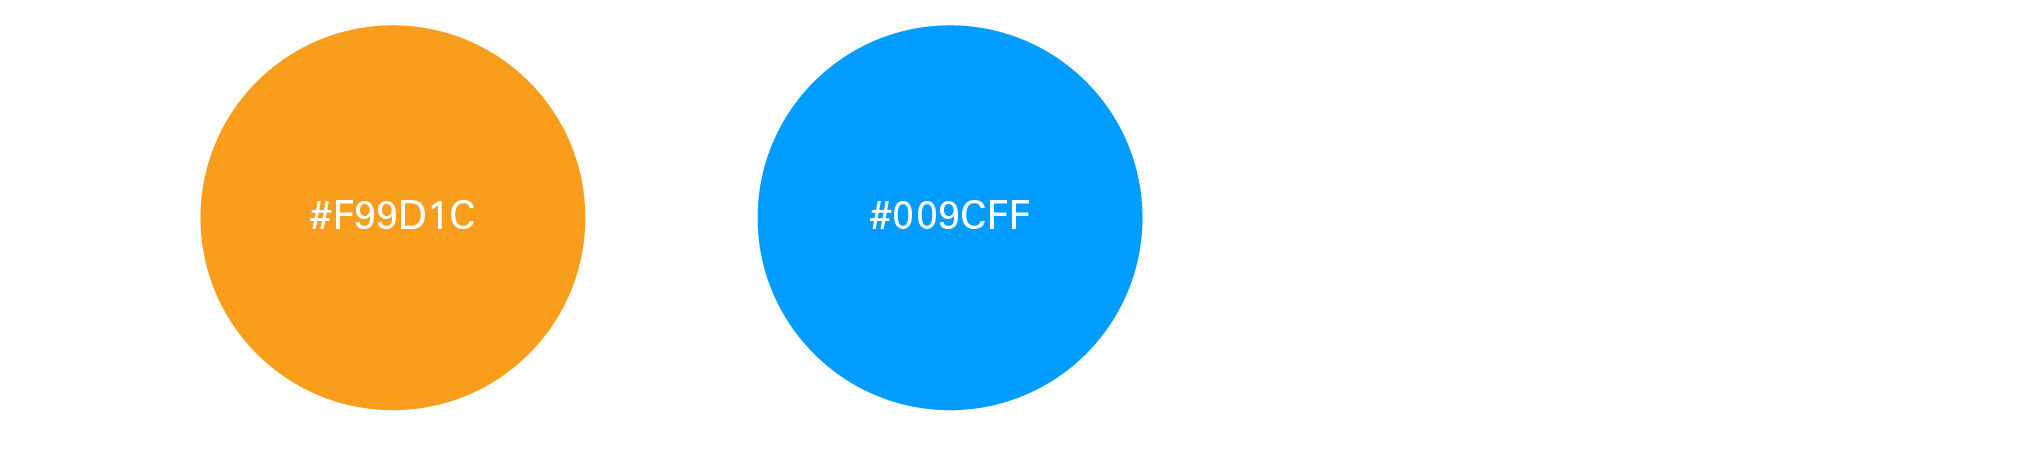
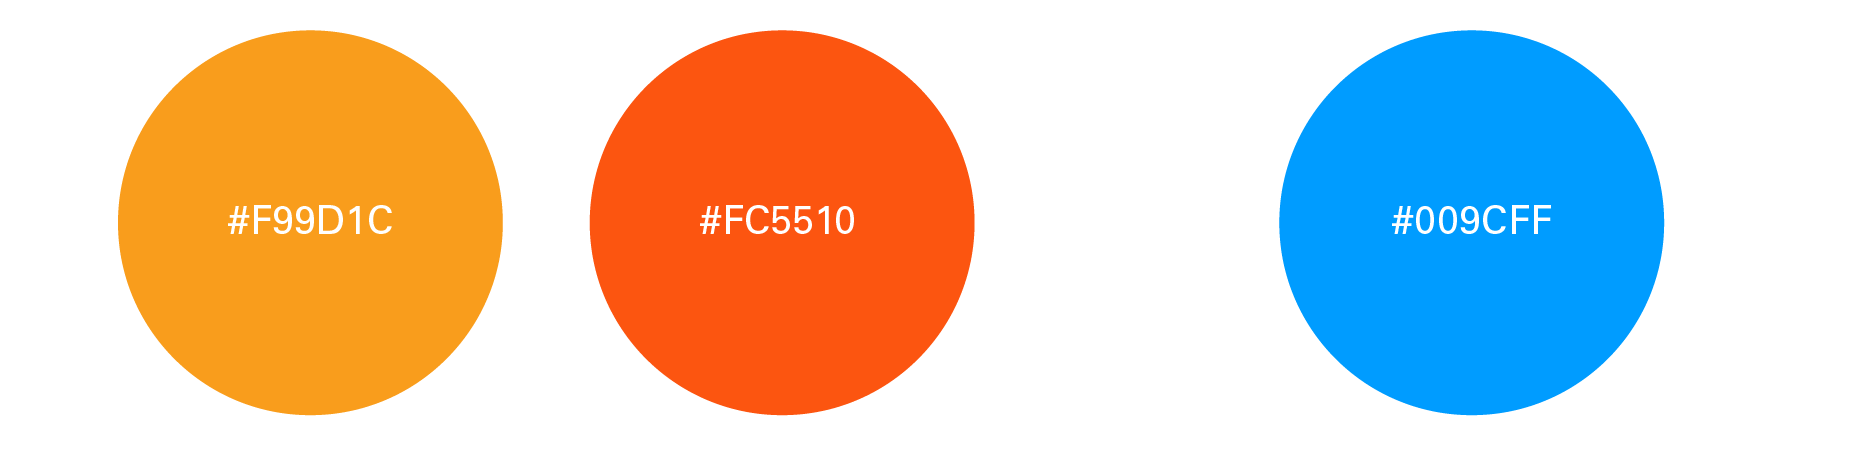
added rough images

diff --git a/index.html b/index.html
@@ -170,15 +170,29 @@
 
 							<p><strong>Color</strong></p>
 
-							<p>I was challenged to devise a color scheme that utilized my least favorite color: a bright orange. To maintain my intended simplicity of the design and avoid visual distractions, I chose a complementary color scheme.</p>
+							<p>I was challenged to devise a color scheme that utilized my least favorite color: a bright orange. In general I utilized a limited color palette, experimenting with an analogous and then complementary color scheme. To maintain my intended simplicity of design, I eventually chose a complementary color scheme for my latter iterations.</p>
 
 							<img src="images/portfolio/poster/original-colors.png"><br/>
 
-							<p><strong>Sketch to Wireframe</strong></p>
+							<p><strong>Rough Concepts</strong></p>
 
-							<p>I modeled initial wireframes after riders’ desires for cost and convenience. Our mobile solution - dubbed iCommute - aimed to consolidate transportation comparisons in one application.</p>
+							<p>I experimented with a background color in my initial iterations - the theory being that my  design would differentiate itself this way when placed beside other posters. In doing so, I felt I sacrificed too much in the way of information clarity. I also hoped to later reduce the dominance of the guiding line in the design.</p>
 
-							<a class="popup-link" href="images/portfolio/icommute/early-prototypes.png"><img src="images/portfolio/icommute/early-prototypes.png"></a>
+							<p>For my next design I focused on distinguishing content from the negative space. Thus, I slightly increased the font size of the event headings, and decreased the stroke of the white, directional line. I also added a complementary blue fill to diversify the background intensity, while also creating the illusion of a skyline.</p>
+
+
+							<div class="row align-center">
+
+								<div class="small-12 medium-6 columns">
+									<a class="popup-link" href="images/portfolio/poster/poster_process3.jpg"><img src="images/portfolio/poster/poster_process3.jpg"></a>
+								</div>
+								<div class="small-12 medium-6 columns">
+									<a class="popup-link" href="images/portfolio/poster/type_hierarchy_full.png"><img src="images/portfolio/poster/type_hierarchy_full.png"></a>
+								</div>
+
+								
+
+							</div>
 
 
 
@@ -194,39 +208,7 @@
 
 							<a class="popup-link" href="images/portfolio/icommute/logo-progression.png"><img src="images/portfolio/icommute/logo-progression.png"></a>
 
-							<p><strong>Color Matters</strong></p>
-
-							<p>I tried to choose a color scheme that I thought would be both playful and trustworthy. I also didn't want to reflect color schemes of other popular ridesharing apps, Uber & Lyft. The palette is intentionally limited to allow user's to focus on quickly adding a destination and comparing transporation services.</p>
-
-							<img src="images/portfolio/icommute/color-palette.png">
-
-							<p><strong>UI Revisions</strong></p>
-
-							<p>Our research also showed that users preferred a visual confirmation of input destinations when putting in an address. We addressed this by including a map on the home screen, similar to other ridesharing applications. The new home screen includes an additional visual aid that instructs users to enter where they want to go.</p>
-
-							<p>The “compare” screen no longer emphasizes a result beyond order of results, giving autonomy back to users. By tapping “Commute Details”, we hoped to offer more granularity to users who wish to know more about a service before committing. Users can now prioritize results by features such as cost and total trip time - accessible via the settings menu.</p>
-
-							<div class="row align-center">
-								<div class="small-12 medium-3 columns">
-									<a class="popup-link" href="images/portfolio/icommute/icommute_home screen.png"><img src="images/portfolio/icommute/icommute_home screen.png"></a>
-								</div>
-
-								<div class="small-12 medium-3 columns">
-									<a class="popup-link" href="images/portfolio/icommute/icommute_entering terms.png"><img src="images/portfolio/icommute/icommute_entering terms.png"></a>
-
-								</div>
-
-								<div class="small-12 medium-3 columns">
-									<a class="popup-link" href="images/portfolio/icommute/icommute-route-entered.png"><img src="images/portfolio/icommute/icommute-route-entered.png"></a>
-
-								</div>
-
-								<div class="small-12 medium-3 columns">
-									<a class="popup-link" href="images/portfolio/icommute/icommute_results screen.png"><img src="images/portfolio/icommute/icommute_results screen.png"></a>
-
-								</div>
-
-							</div>
+							
 
 							<p><strong>More To Do</strong></p>
 
